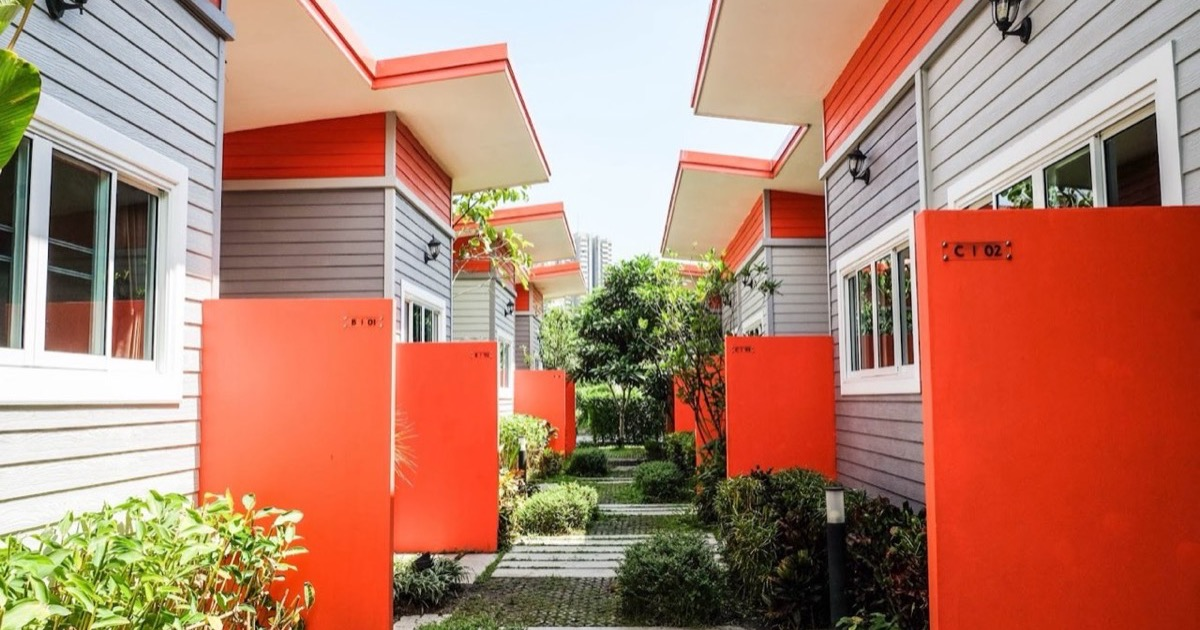
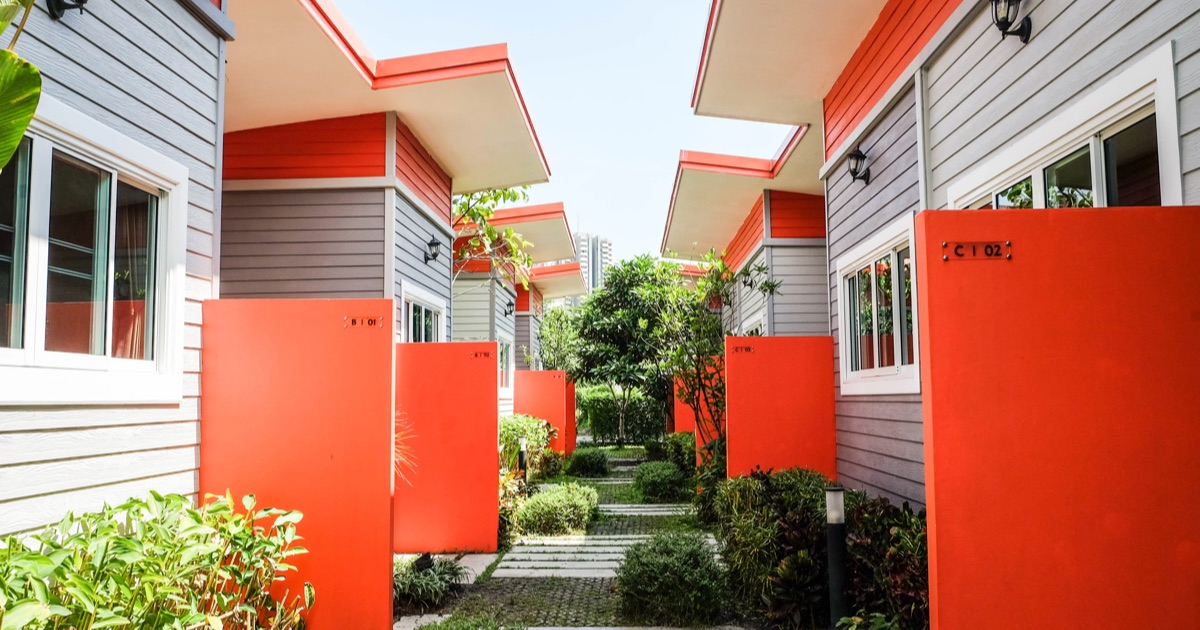
fix(design): cut the hero from the 4K original, not the 1280px downscale
The first pass derived the hero from bps-g-exterior.jpg, which is only
1280x749 — so the 1100px desktop export was already smaller than its own
source, and the browser then stretched it across the full viewport. That is
why it still looked soft after the swap.

header_background.webp is the same photograph at 4628x2711 and was sitting
in the repo unused for this purpose. Re-cut from it:

  hero-exterior-2000.webp   2000x1171  256KB  (desktop)
  hero-exterior-1200.webp   1200x703   128KB  (<=760px)
  og-exterior-1200x630.jpg  1200x630   244KB

Desktop is now nearly double the pixels at the same weight the old garden
hero carried (261KB), so this costs nothing on LCP. The room plates on the
walls are legible again. Old 1100/700 exports deleted; nothing else
referenced them.

Claude-Session: https://claude.ai/code/session_017RLRJ2332EzG3rRerfHYJo

diff --git a/src/css/styles.css b/src/css/styles.css
@@ -3200,10 +3200,12 @@ section h2,
 
 /* ==========================================================================
    HERO — orange cottages, full-bleed scrim, bottom-left composition
-   2026-09-02: swapped from the garden/pond shot to bps-g-exterior. The garden
-   photo was soft-focus and read as generic foliage; the orange cottages are
+   2026-09-02: swapped from the garden/pond shot to the orange cottages. The
+   garden photo was soft-focus and read as generic foliage; the cottages are
    sharp and are the one thing about this property nobody else in the comp set
    has. The scrim below is unchanged and still carries the text contrast.
+   Source is header_background.webp (4628x2711), NOT bps-g-exterior.jpg —
+   that file is a 1280px downscale of the same photo and cannot fill a hero.
    Was: the walkway photo behind a floating translucent rounded box that did
    not contain its own text. The box read as a stray grey rectangle and the
    subhead sat on busy imagery with no shadow.
@@ -3215,7 +3217,7 @@ section h2,
     align-items: flex-end;
     min-height: min(86svh, 700px);
     padding: var(--bps-s-5) 0 var(--bps-s-4);
-    background-image: url("../assets/images/derived/hero-exterior-1100.webp");
+    background-image: url("../assets/images/derived/hero-exterior-2000.webp");
     background-color: var(--bps-ink);
     background-position: center 42%;
     background-size: cover;
@@ -3687,12 +3689,13 @@ section h2,
     }
 }
 
-/* Mobile gets the 700px hero (48KB) instead of the 1100px one (95KB).
-   The cottage shot has large flat colour areas so it compresses far better
-   than the old foliage hero did — both files roughly halved. */
+/* Mobile gets the 1200px hero (128KB) instead of the 2000px one (256KB).
+   Both are cut from header_background.webp, the 4628x2711 original of the
+   same shot — bps-g-exterior.jpg is only a 1280px downscale of it, so
+   deriving from that was what made the first attempt look soft. */
 @media (max-width: 760px) {
     .bps-hero {
-        background-image: url("../assets/images/derived/hero-exterior-700.webp");
+        background-image: url("../assets/images/derived/hero-exterior-1200.webp");
     }
 }
 

diff --git a/CLAUDE.md b/CLAUDE.md
@@ -83,11 +83,15 @@ Primary booking channel is **LINE** (`https://line.me/ti/p/FI5YYjJS-X`).
 - `src/googlede4b9980330bd0c6.html` — Google Search Console file-verification token
 - `src/assets/images/` — WebP/JPG/PNG assets (not all are used on the page).
   `derived/` holds the sized exports actually referenced by the pages. The hero and
-  og:image use `hero-exterior-1100.webp` / `hero-exterior-700.webp` /
-  `og-exterior-1200x630.jpg` (the orange cottages, from `bps-g-exterior.jpg`).
-  The older `hero-garden-*` / `og-garden-*` files are still used by
-  `articles/pak-kret-day-trip.html` — do not delete them. Regenerate exports with
-  `sips` + `cwebp` (no ImageMagick/PIL on this machine).
+  og:image use `hero-exterior-2000.webp` / `hero-exterior-1200.webp` /
+  `og-exterior-1200x630.jpg` — the orange cottages.
+  **Cut those from `header_background.webp` (4628x2711), not from
+  `bps-g-exterior.jpg`.** The two are the same photograph, but `bps-g-exterior.jpg`
+  is only a 1280px downscale, so anything derived from it is soft once a hero
+  stretches it across a full-width viewport. Check `sips -g pixelWidth` before
+  picking a source. The older `hero-garden-*` / `og-garden-*` files are still used
+  by `articles/pak-kret-day-trip.html` — do not delete them. Regenerate exports with
+  `dwebp` + `sips` + `cwebp` (no ImageMagick/PIL on this machine).
 - `src-backup/` — an older version snapshot; ignore for edits.
 
 ## Run locally
